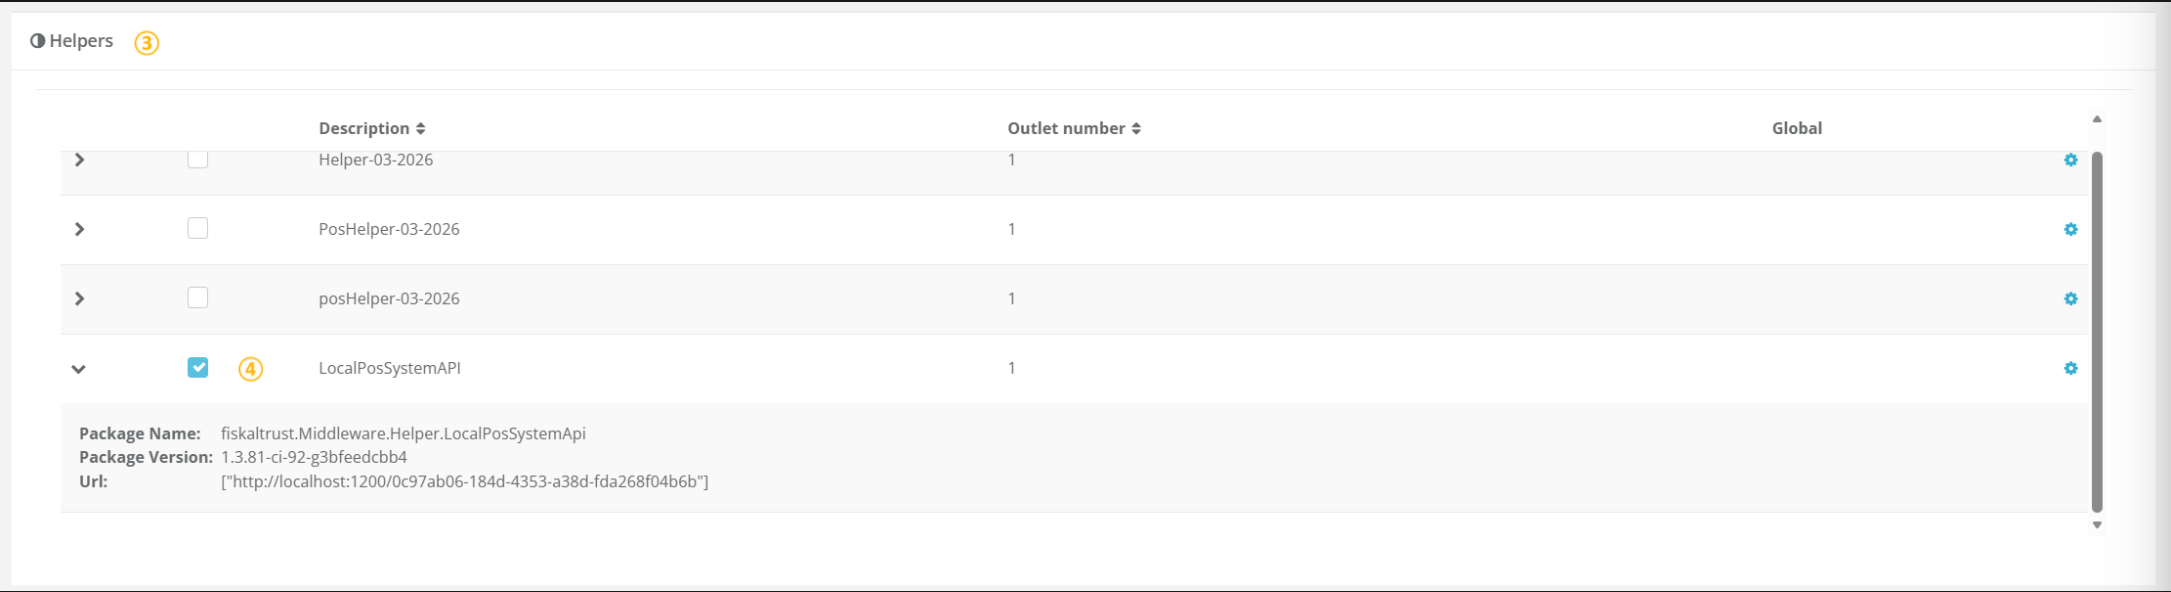
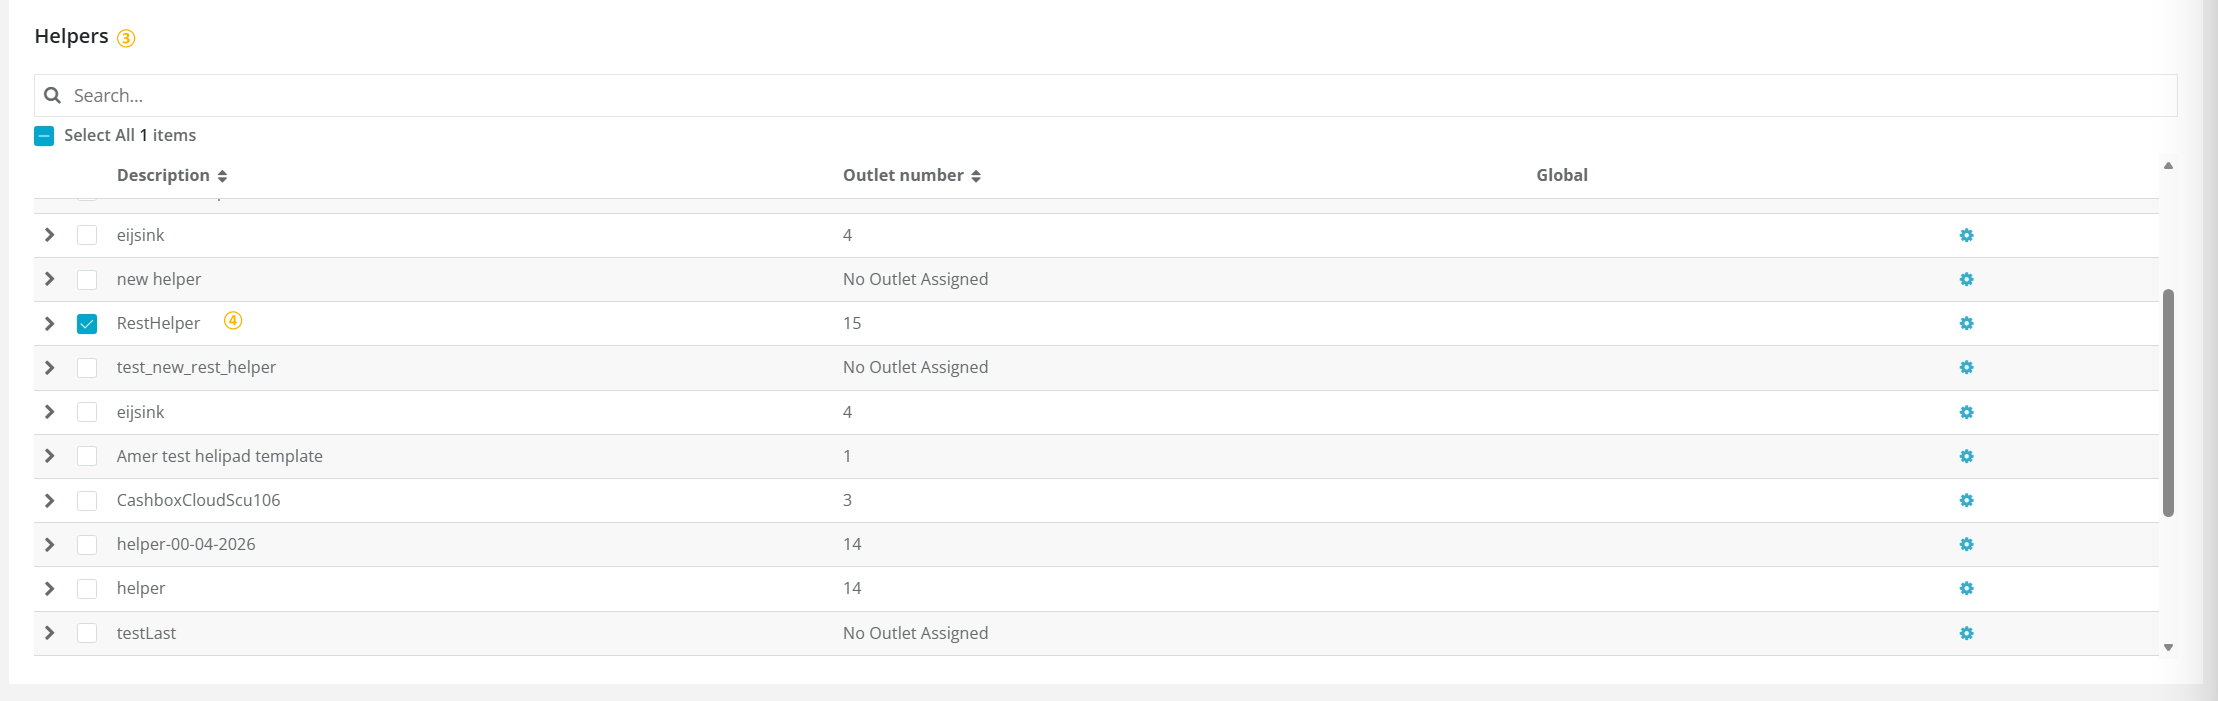
Update

diff --git a/posdealers/technical-operations/middleware/localpossystemapi-helper-1-2.md b/posdealers/technical-operations/middleware/localpossystemapi-helper-1-2.md
@@ -59,8 +59,7 @@ You can skip this step if a rest helper is already present in the 1.2 CashBox.
 To add the local rest Helper, navigate to `Configuration` / `Helper` in the fiskaltrust Portal and follow the steps below. 
 Note that the following figures and steps are exemplary.
 
-<!-- TODO change this to a screenshot of the rest helper setup instead of possystemapi helper -->
-![possystemapihelper1.png](images/possystemapihelper1.png)
+![createnewrestapifr.png](images/createnewrestapifr.png)
 
 | steps                                           | description                                                                                                                           |
 |-------------------------------------------------|---------------------------------------------------------------------------------------------------------------------------------------|
@@ -74,26 +73,33 @@ Note that the following figures and steps are exemplary.
 
 Once saved, a **success** notification will appear confirming that the Helper has been created. The configuration window for the new Helper will then open automatically, allowing you to proceed with the setup.
 
+### Configure the Rest Helper
+
+![configureresthelper.png](images/configureresthelper.png)
+
+| steps                                           | description                                                                                                                              |
+|-------------------------------------------------|--------------------------------------------------------------------------------------------------------------------------------------------|
+| ![Number 1](../../images/numbers/circle-1o.png) | Click `http (SOAP)` to generate a URL through which the Helper can be accessed. You may also rename the URL to one of your own choosing. |
+| ![Number 2](../../images/numbers/circle-2o.png) | `Save` your changes to return to `Configuration` / `Helper`.                                                                              |
+
 ### Use the rest Helper in the 1.2 CashBox
 
-<!-- TODO change this to a screenshot of the rest helper setup instead of possystemapi helper -->
-![assignposysstemapi.png](images/assignposysstemapi.png)
+![assignhelpercashboxview.png](images/assignhelpercashboxview.png)
 
 | steps                                           | description                                                             |
 |-------------------------------------------------|-------------------------------------------------------------------------|
 | ![Number 1](../../images/numbers/circle-1o.png) | Navigate to `Configuration` / `CashBox` and search for the 1.2 CashBox. |
 | ![Number 2](../../images/numbers/circle-2o.png) | Click `Edit` to open the CashBox configuration.                         |
 
-<!-- TODO change this to a screenshot of the rest helper setup instead of possystemapi helper -->
 ![selecthelper.png](images/selecthelper.png)
+
 
 | steps                                           | description                                                                     |
 |-------------------------------------------------|---------------------------------------------------------------------------------|
 | ![Number 3](../../images/numbers/circle-3o.png) | Scroll down to the **Helpers** section and locate the just created rest Helper. |
 | ![Number 4](../../images/numbers/circle-4o.png) | Activate the Helper by selecting its checkbox.                                  |
 
-<!-- TODO change this to a screenshot of the rest helper setup instead of possystemapi helper -->
-![savecashboxconfig.png](images/savecashboxconfig.png)
+![saveselecthelper.png](images/saveselecthelper.png)
 
 | steps                                           | description                         |
 |-------------------------------------------------|-------------------------------------|
@@ -122,7 +128,7 @@ Once saved, a **success** notification will appear confirming that the Helper ha
 
 ## Configure the LocalPosSystemApi Helper
 
-<!-- TODO add the numbers in screenshot -->
+![addcustomconfig.png](images/addcustomconfig.png)
 ![connect-helper-5.png](images/connect-helper-5.png)
 
 | steps                                           | description                                                                                                                                 |
